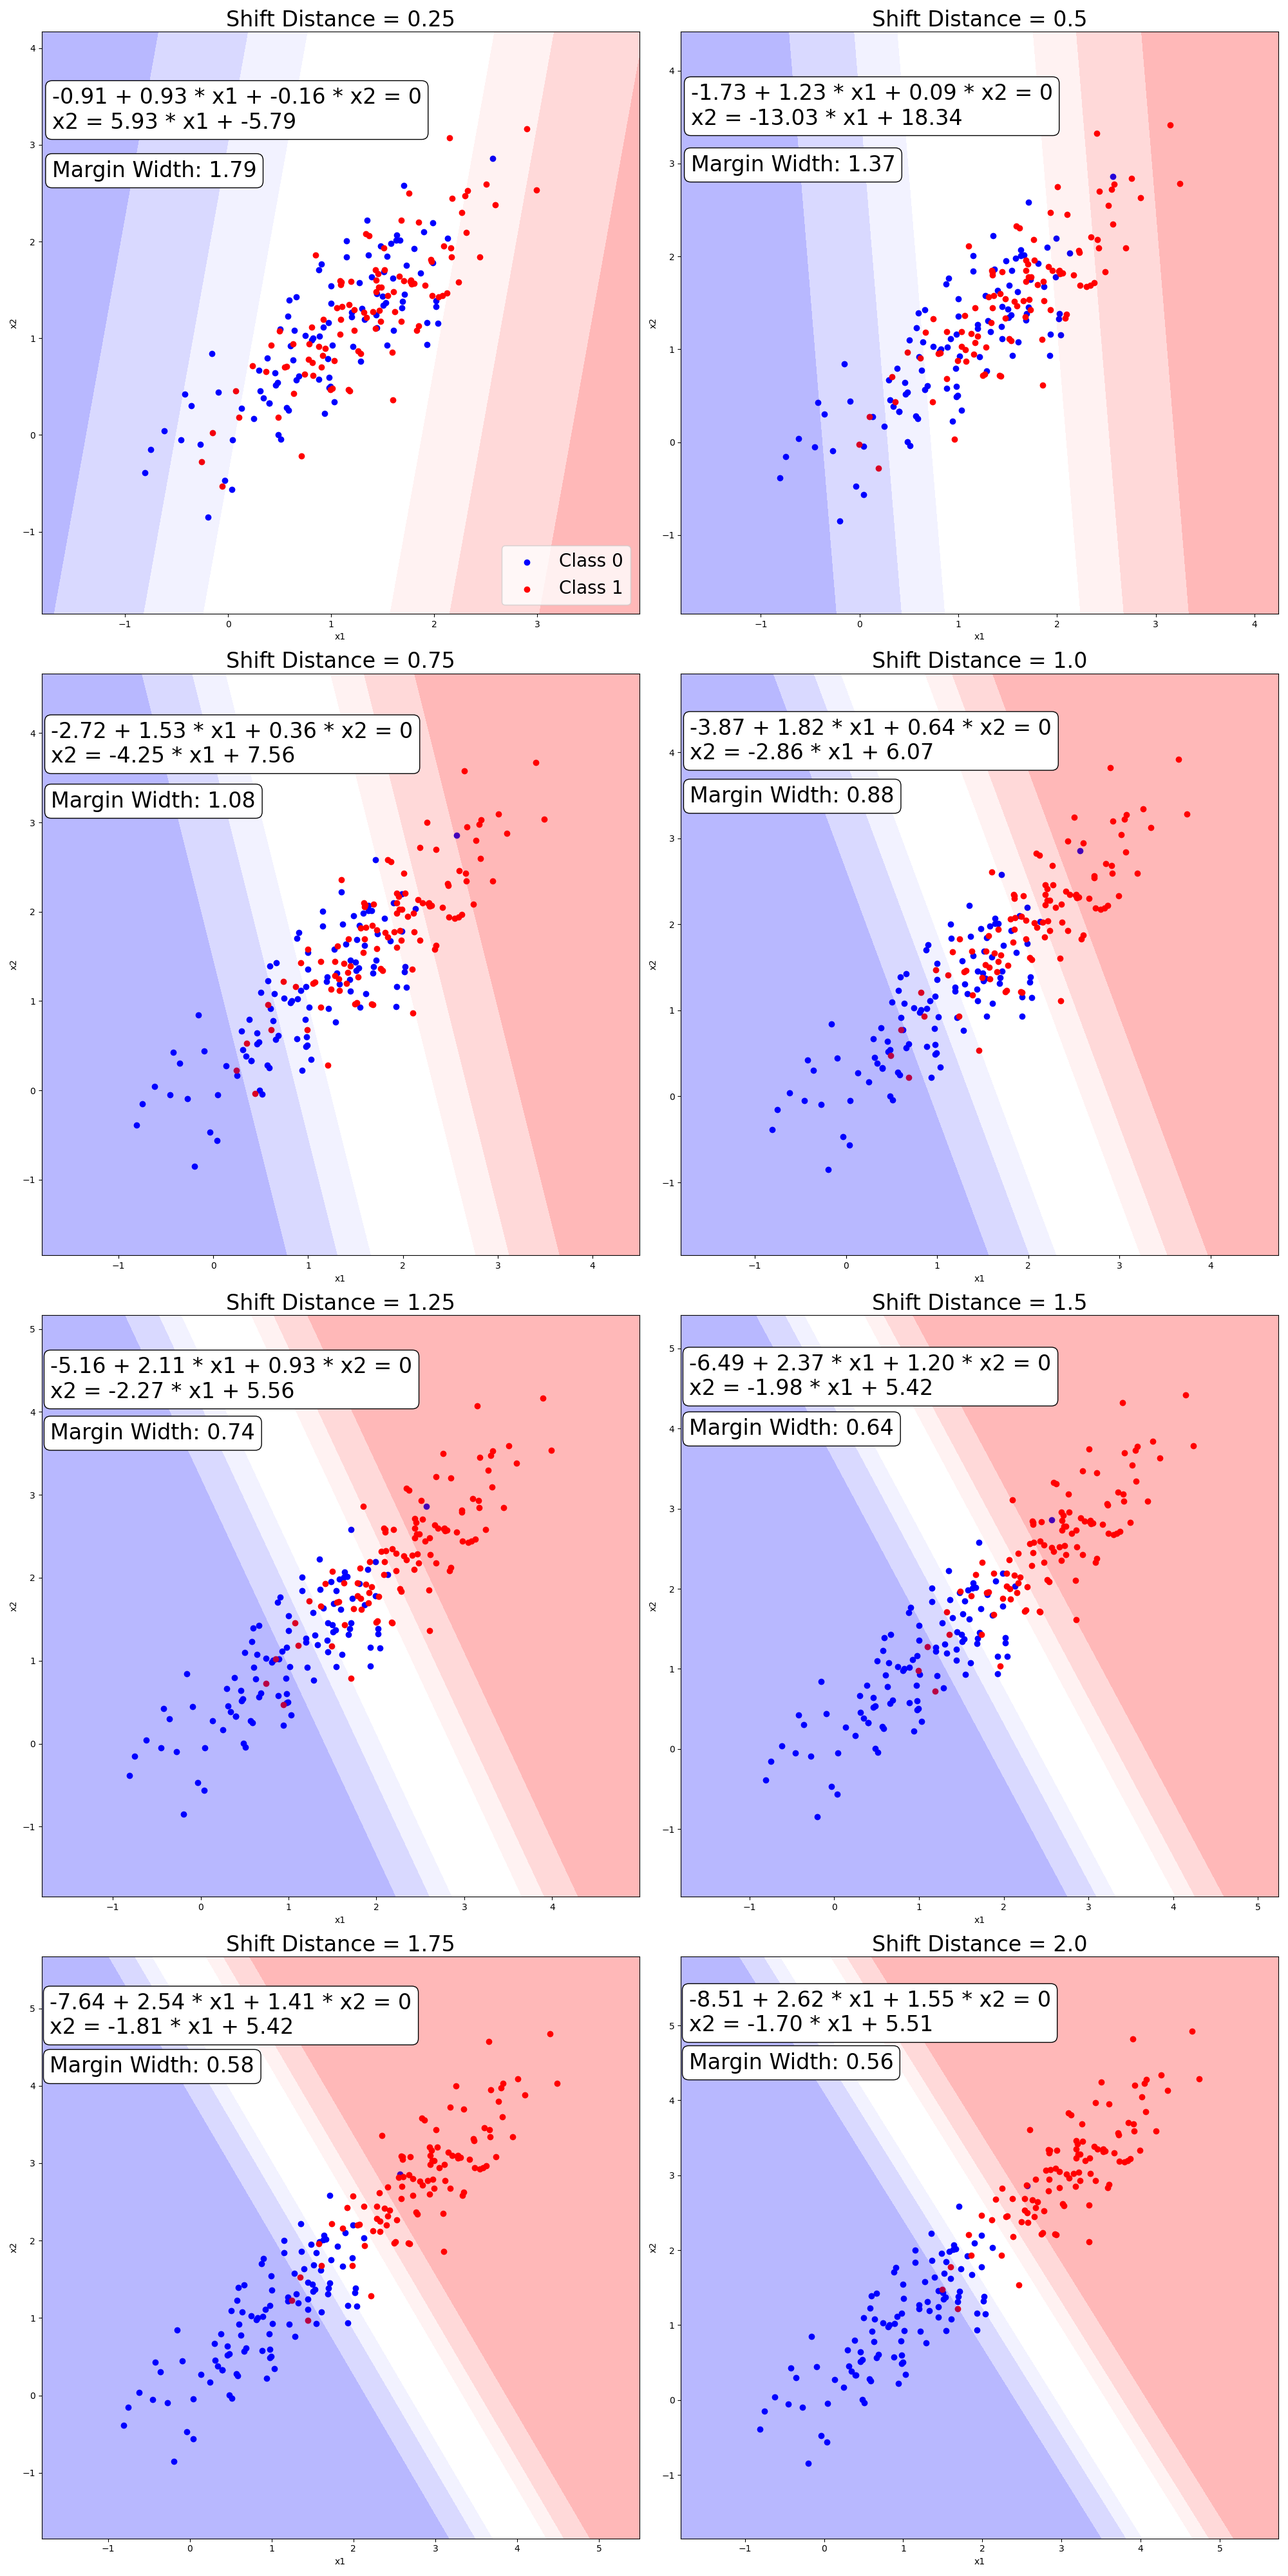
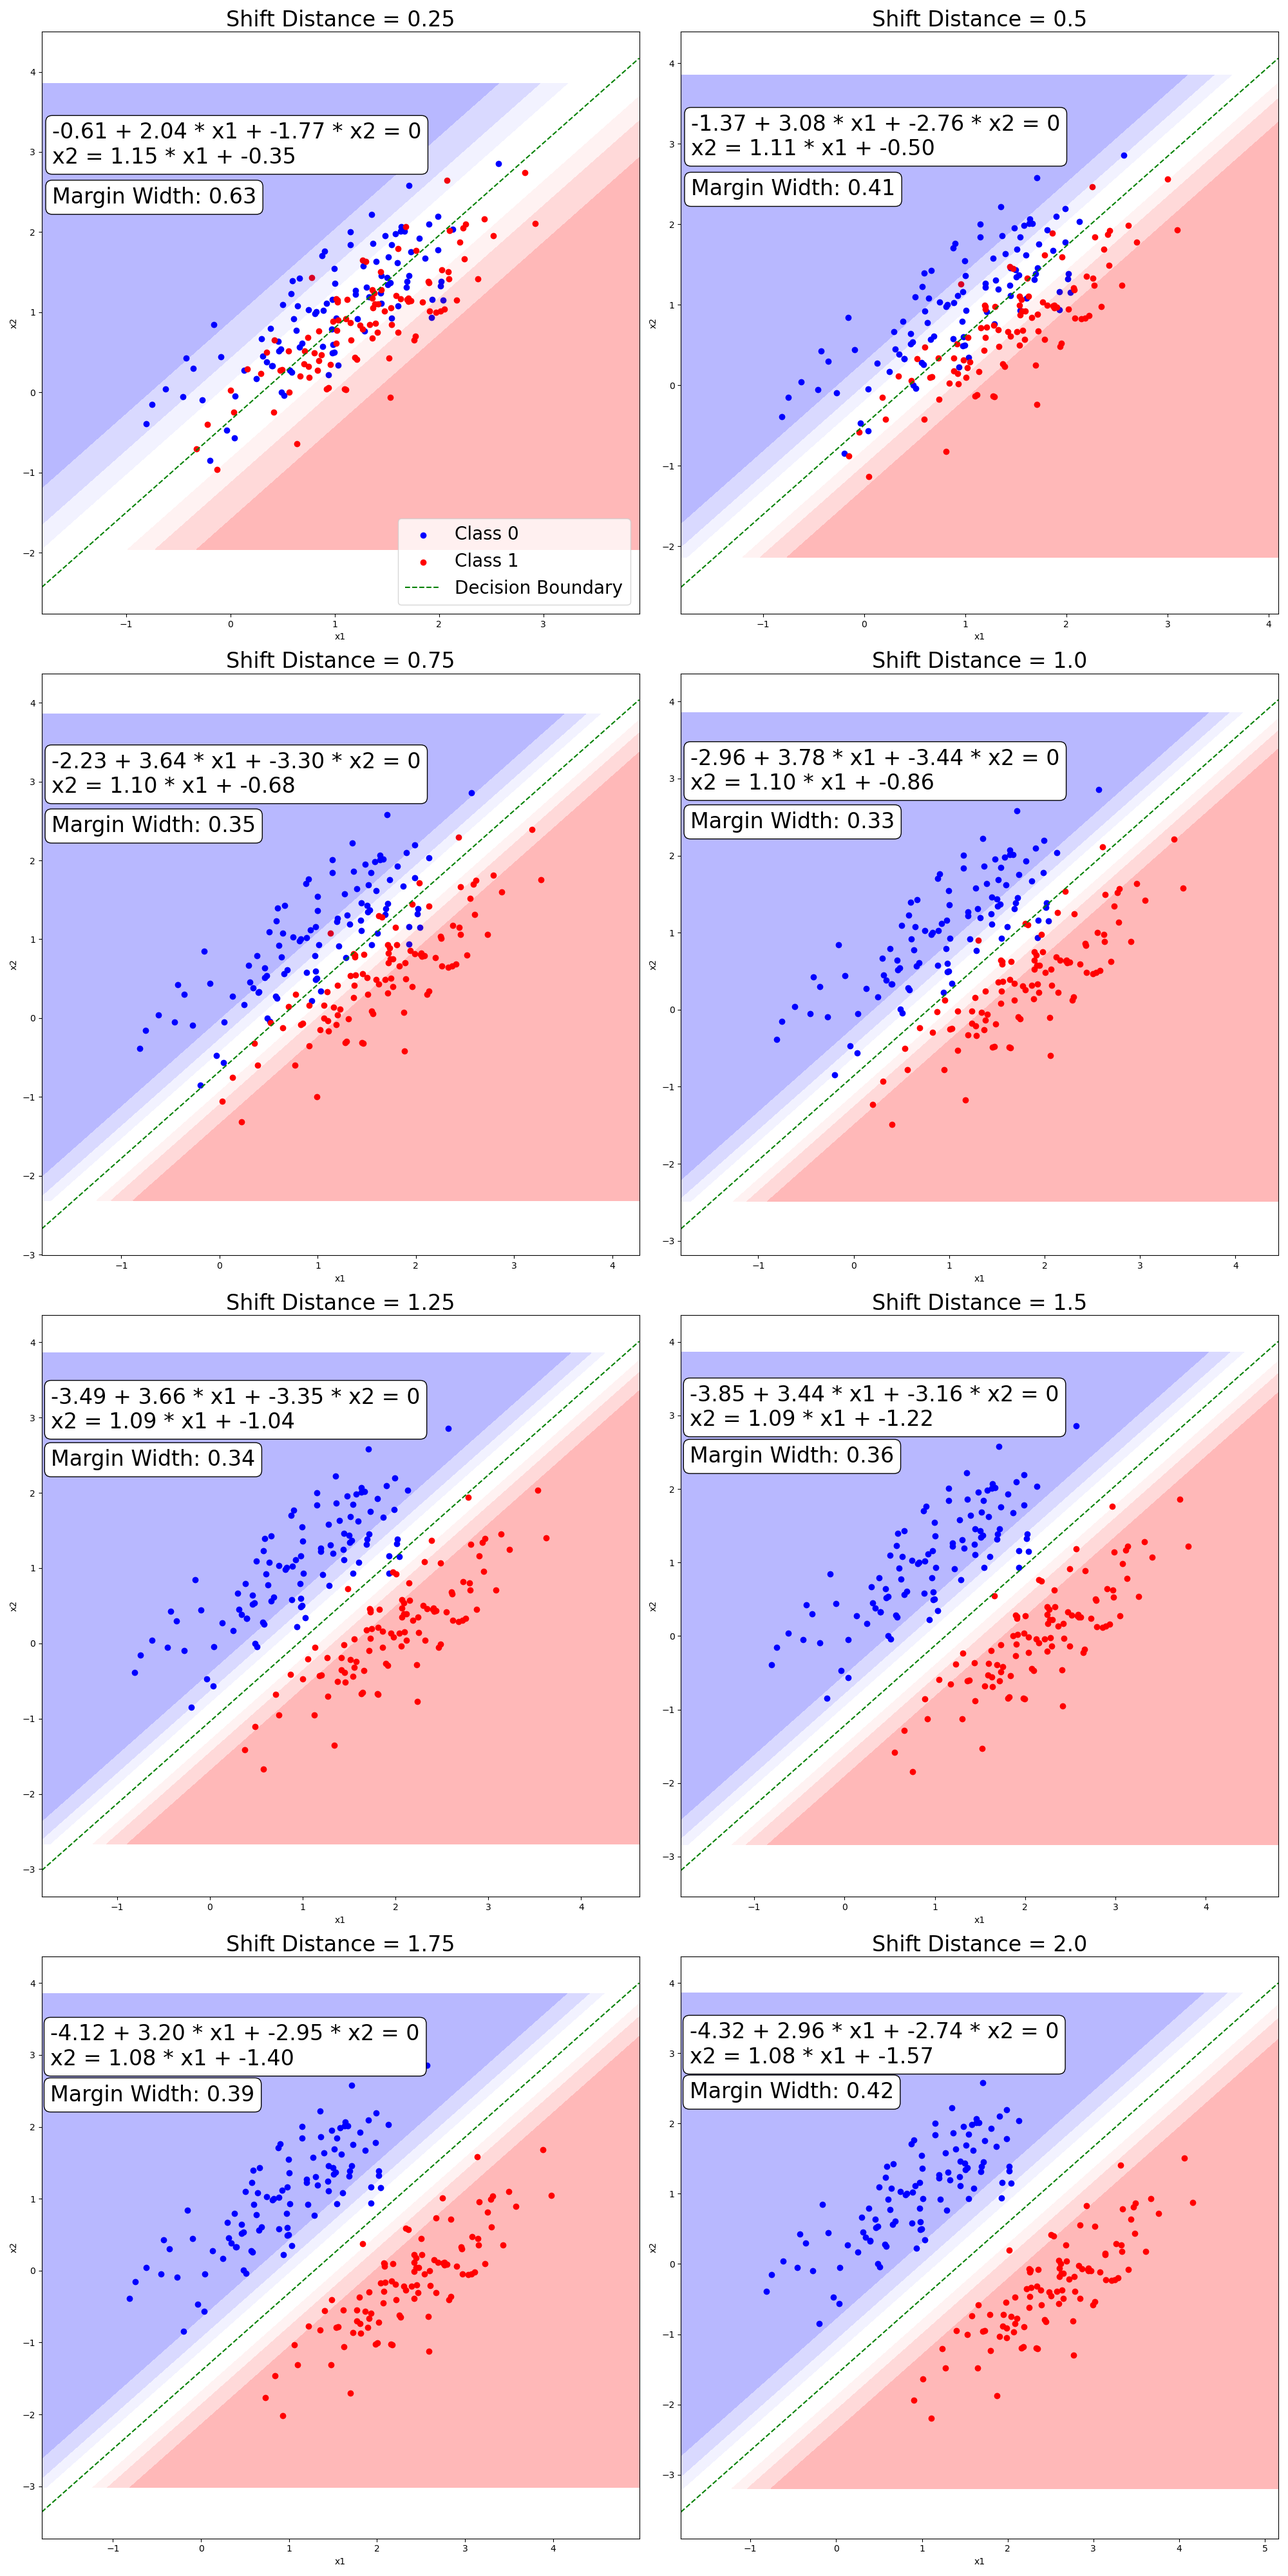
updated plotting

diff --git a/logistic_regression.py b/logistic_regression.py
@@ -4,6 +4,7 @@ matplotlib.use("Agg")
 import matplotlib.pyplot as plt
 from sklearn.linear_model import LogisticRegression
 from scipy.spatial.distance import cdist
+from sklearn.metrics import log_loss
 import os
 
 result_dir = "results"
@@ -19,9 +20,12 @@ def generate_ellipsoid_clusters(distance, n_samples=100, cluster_std=0.5):
     y1 = np.zeros(n_samples)
 
     # Generate the second cluster (class 1)
-    X2 = np.random.multivariate_normal(mean=[1 + distance, 1 + distance], cov=covariance_matrix, size=n_samples)
+    X2 = np.random.multivariate_normal(mean=[1, 1], cov=covariance_matrix, size=n_samples)
     
     # Implement: Shift the second cluster along the x-axis and y-axis for a given distance
+    shift_direction = np.array([1, -1]) / np.sqrt(2)  # Unit vector along y = -x
+    shift_vector = distance * shift_direction
+    X2 += shift_vector
     
     y2 = np.ones(n_samples)
 
@@ -65,8 +69,7 @@ def do_experiments(start, end, step_num):
         plt.scatter(X[y == 1, 0], X[y == 1, 1], color='red', label='Class 1')
 
         # Implement: Calculate and store logistic loss
-        logistic_loss = -np.mean(y * np.log(model.predict_proba(X)[:, 1]) + 
-                                 (1 - y) * np.log(1 - model.predict_proba(X)[:, 1]))
+        logistic_loss = log_loss(y, model.predict_proba(X))
         loss_list.append(logistic_loss)
 
         # Calculate margin width between 70% confidence contours for each class
@@ -82,6 +85,12 @@ def do_experiments(start, end, step_num):
 
         slope_list.append(slope)
         intercept_list.append(intercept)
+
+        x_values = np.array([x_min, x_max])
+
+        y_values = slope * x_values + intercept
+
+        plt.plot(x_values, y_values, color='green', linestyle='--', label='Decision Boundary')
 
         # Plot fading red and blue contours for confidence levels
         contour_levels = [0.7, 0.8, 0.9]
@@ -144,7 +153,6 @@ def do_experiments(start, end, step_num):
     plt.title("Shift Distance vs Beta1 / Beta2 (Slope)")
     plt.xlabel("Shift Distance")
     plt.ylabel("Beta1 / Beta2")
-    plt.ylim(-2, 0)
 
     # Implement: Plot beta0 / beta2 (Intercept ratio)
     plt.subplot(3, 3, 5)
